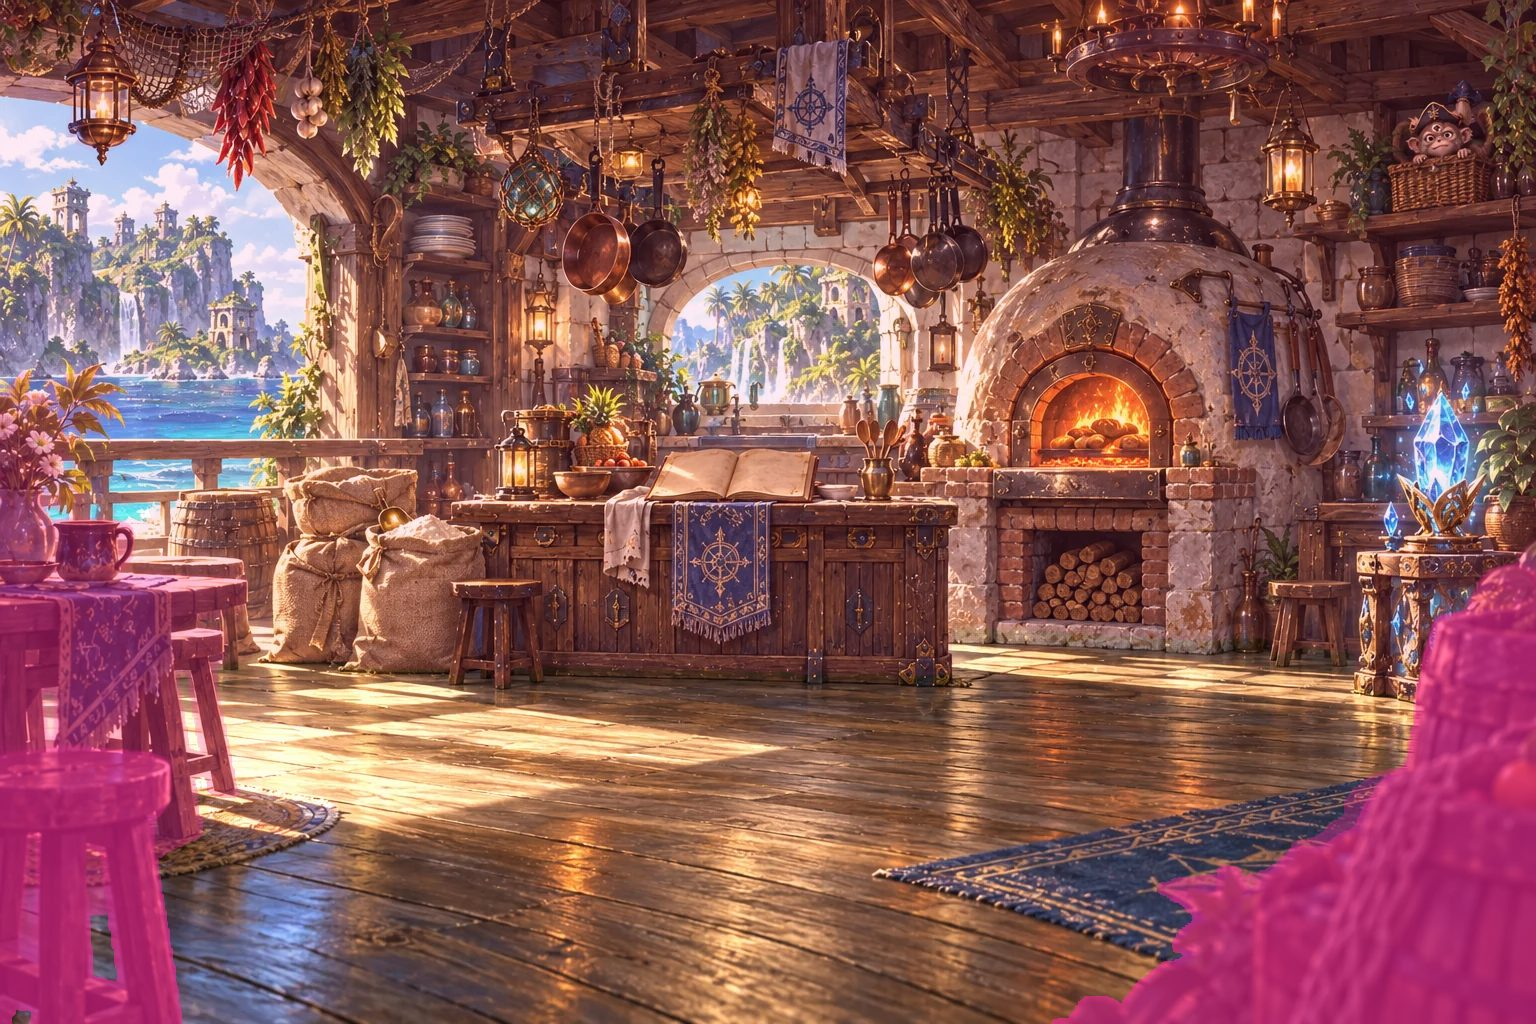
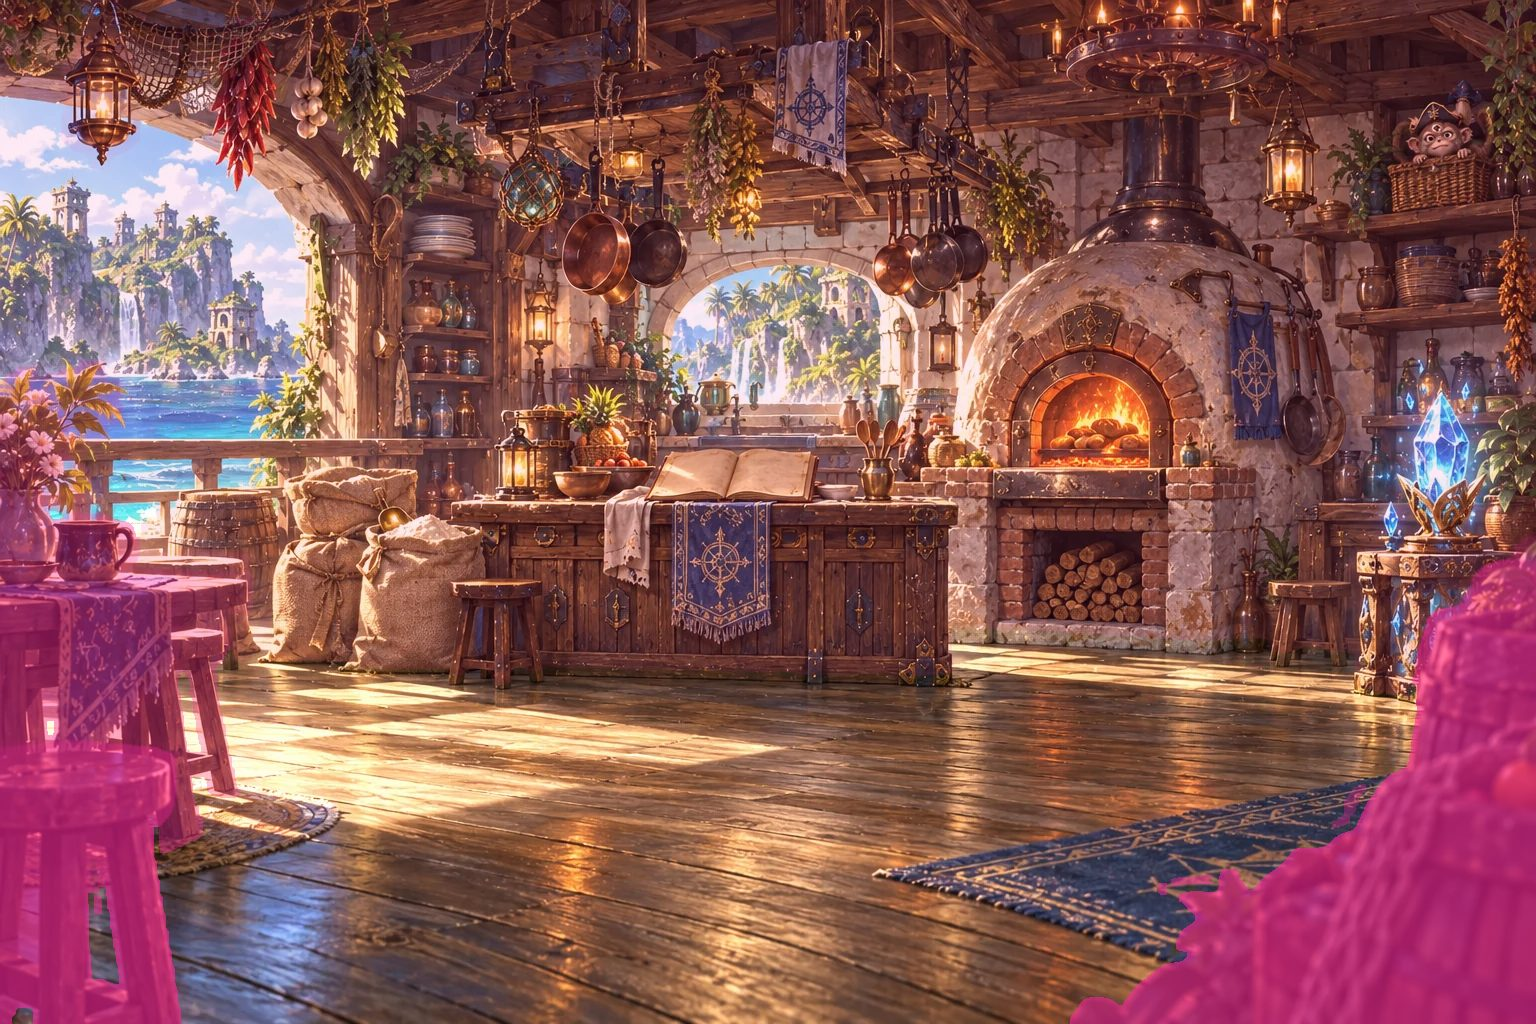
Bakery: Codex's clean plate behind the near furniture, solid depth edges
The depth map now cuts each near thing's edge where the model's blur is
halfway, so tables, stools and the barrel move whole, and what they slide
off shows Codex's painting of the room without them.

Claude-Session: https://claude.ai/code/session_01TdGBWtPRdxX58zPUQ92D2L

diff --git a/src/ui/depth.js b/src/ui/depth.js
@@ -7,8 +7,9 @@
 // stage row of the floor that is as near as it is; here each pixel of the
 // screen looks along its row for the painted pixel that lands on it, nearest
 // first, so the table moves whole, at the speed of the floor it stands on.
-// Where a near thing slides off what was behind it, the gap takes the colour
-// from behind (never a smear of the near thing).
+// Where a near thing slides off what was behind it, the gap shows the room
+// without it (Codex's plate), or without one, the colour just behind it
+// stretched (never a smear of the near thing).
 //
 // A second pass draws only what is nearer than anyone can walk (the stool at
 // the front), for the layer in front of the people.
@@ -27,6 +28,9 @@ precision highp float;
 uniform sampler2D uImg;
 uniform sampler2D uDepth;
 uniform sampler2D uRowMax;
+uniform sampler2D uPlate;  // the room with the near things taken out (or nothing: uHasPlate 0)
+uniform float uHasPlate;
+uniform float uPlateFrom; // the plate has everything nearer than this row taken out
 uniform vec2 uRes;       // canvas pixels
 uniform float uPx;       // canvas pixels per stage pixel
 uniform vec2 uC;         // the stage's middle
@@ -60,7 +64,9 @@ void main() {
   float fHi = factor(max(row, rowMax));
   // a painted pixel at u lands at u * scale - camera * f: look from the nearest f to the farthest
   float u = (q + uCam.x * fLo) / uImgPos.z;
+  float uBg = u; // what's behind anything near: the floor here, or the back of the room
   float hit = standing(u, v);
+  float behind = 0.0; // 1: what shows here was hidden behind something near
   float span = abs(uCam.x) * (fHi - fLo) / uImgPos.z;
   if (span > 0.5) {
     float n = min(float(${MAX_STEPS}), ceil(span / 1.5));
@@ -73,14 +79,21 @@ void main() {
       float fs = factor(max(row, st));
       if (fs >= ft - 1e-4 || float(i) >= n) {
         // hit the side of something near: what shows here was behind it
-        if (i > 0 && fs - ft > fStep * 2.0) { u = prevU; hit = 0.0; }
+        // (something else near behind it, or another part of the same thing: stretch that a little, the plate doesn't have it)
+        if (i > 0 && fs - ft > fStep * 2.0) {
+          u = prevU;
+          hit = standing(prevU, v);
+          behind = hit < uPlateFrom ? 1.0 : 0.0;
+        }
         else { u = ut; hit = st; }
         break;
       }
       prevU = ut;
     }
   }
-  vec4 col = texture2D(uImg, vec2(mirror(u) / uImgSize.x, v / uImgSize.y));
+  vec4 col = behind * uHasPlate > 0.5
+    ? texture2D(uPlate, vec2(mirror(uBg) / uImgSize.x, v / uImgSize.y))
+    : texture2D(uImg, vec2(mirror(u) / uImgSize.x, v / uImgSize.y));
   float a = (uNear <= 0.0 || hit > uNear) ? 1.0 : 0.0;
   gl_FragColor = vec4(col.rgb * a, a);
 }
@@ -90,8 +103,10 @@ void main() {
  * A depth painter for one scene, or null when this computer can't draw one
  * (no WebGL): the stage then draws in rows as before.
  *   depthImg  the depth map (loaded), unit  its step in stage rows
+ *   plateImg  the room without its near things (loaded), if it has one,
+ *   plateFrom  with everything nearer than this stage row taken out
  */
-export function createDepthPainter(depthImg, unit) {
+export function createDepthPainter(depthImg, unit, plateImg = null, plateFrom = 0) {
   const canvas = h("canvas");
   const gl = canvas.getContext("webgl", { alpha: true, premultipliedAlpha: true, antialias: false, depth: false });
   if (!gl) return null;
@@ -121,7 +136,7 @@ export function createDepthPainter(depthImg, unit) {
   gl.enableVertexAttribArray(aPos);
   gl.vertexAttribPointer(aPos, 2, gl.FLOAT, false, 0, 0);
   const U = {};
-  for (const name of ["uImg", "uDepth", "uRowMax", "uRes", "uPx", "uC", "uCam", "uImgPos", "uImgSize", "uDepthFit", "uRows", "uNear"]) U[name] = gl.getUniformLocation(prog, name);
+  for (const name of ["uImg", "uDepth", "uRowMax", "uPlate", "uHasPlate", "uPlateFrom", "uRes", "uPx", "uC", "uCam", "uImgPos", "uImgSize", "uDepthFit", "uRows", "uNear"]) U[name] = gl.getUniformLocation(prog, name);
 
   gl.pixelStorei(gl.UNPACK_COLORSPACE_CONVERSION_WEBGL, gl.NONE);
   gl.pixelStorei(gl.UNPACK_PREMULTIPLY_ALPHA_WEBGL, false);
@@ -157,9 +172,15 @@ export function createDepthPainter(depthImg, unit) {
   }
   texture(2, gl.NEAREST);
   gl.texImage2D(gl.TEXTURE_2D, 0, gl.LUMINANCE, dh, 1, 0, gl.LUMINANCE, gl.UNSIGNED_BYTE, rowMax);
+  texture(3, gl.LINEAR);
+  if (plateImg) gl.texImage2D(gl.TEXTURE_2D, 0, gl.RGBA, gl.RGBA, gl.UNSIGNED_BYTE, plateImg);
+  else gl.texImage2D(gl.TEXTURE_2D, 0, gl.RGBA, 1, 1, 0, gl.RGBA, gl.UNSIGNED_BYTE, new Uint8Array(4));
   gl.uniform1i(U.uImg, 0);
   gl.uniform1i(U.uDepth, 1);
   gl.uniform1i(U.uRowMax, 2);
+  gl.uniform1i(U.uPlate, 3);
+  gl.uniform1f(U.uHasPlate, plateImg ? 1 : 0);
+  gl.uniform1f(U.uPlateFrom, plateFrom);
 
   let imgSource = null;
   let imgVersion = -1;

diff --git a/src/world/data2.js b/src/world/data2.js
@@ -89,14 +89,23 @@ export const SCENES2 = {
     // the painting's camera stands close, at a grown-up's eye height: heads near its horizon
     people: { eyeY: 140, scale: 2.1 },
     music: "music_cove",
-    walk: WALK(432),
+    // behind the corner table at the left (it's drawn in front of whoever is behind it), never in front of it
+    walk: [
+      [-150, 432],
+      [1430, 432],
+      [1450, 640],
+      [120, 640],
+      [-170, 590],
+    ],
+    // the corner table, its stools and the barrel are nearer than this row, so they're drawn in front of the people
+    inFrontFrom: 590,
     start: [140, 600],
     hotspots: [
       thing("sacks", "flour sacks", "Look at", [61, 225, 306, 439], [176, 436]),
       thing("book", "recipe book", "Read", [503, 194, 692, 257], [597, 449]),
       thing("oven", "the oven", "Look at", [844, -73, 1232, 420], [1040, 417]),
       thing("rest", "rest crystal", "Rest at", [1303, 113, 1477, 477], [1376, 468]),
-      { id: "baker", name: "the baker", verb: "Talk to", sprite: "baker", x: 820, y: 506, size: [150, 238], approach: [-150, 30], face: "left" },
+      { id: "baker", name: "the baker", verb: "Talk to", sprite: "baker", x: 820, y: 506, size: [120, 190], approach: [-210, 30], face: "left" },
       pockets("sacks", [0.5, 0.12], 0.7),
       { id: "out", name: "door to the harbor", verb: "Go out", edge: "left", hidden: true, x: -150, y: 600, size: [120, 220], exit: { to: "harbor", at: [1230, 600] } },
     ],

diff --git a/src/ui/scene.js b/src/ui/scene.js
@@ -139,11 +139,13 @@ export function createStage(field, { background = null, mode = "battle", pinY = 
   // A painted scene with a depth map (tools/art/scene_depth.py) is drawn from it on the GPU (depth.js), so
   // things standing on near floor move whole instead of shearing row by row; ?nodepth shows the rows, for comparing
   const depthArt = fit.pinY != null && info?.depth?.src && !PARAMS_NODEPTH ? loadImage(info.depth.src) : null;
+  const plateArt = depthArt && info.depth.plate ? loadImage(info.depth.plate) : null;
   let depthPainter = null;
-  depthArt?.done.then((ok) => {
-    if (ok && running) depthPainter = createDepthPainter(depthArt.img, info.depth.unit || 4);
-    drawn = "";
-  });
+  if (depthArt)
+    Promise.all([depthArt.done, plateArt?.done]).then(([ok, plateOk]) => {
+      if (ok && running) depthPainter = createDepthPainter(depthArt.img, info.depth.unit || 4, plateOk ? plateArt.img : null, info.depth.plateFrom || 0);
+      drawn = "";
+    });
 
   // ---------------------------------------------------------------- camera
   const camera = {
@@ -490,7 +492,7 @@ export function createStage(field, { background = null, mode = "battle", pinY = 
         eyeY,
         refY: fit.refY,
         damp: fit.damp,
-        nearest: imgTop + imgH * s,
+        nearest: Math.min(imgTop + imgH * s, STAGE_H), // nothing moves faster than the nearest floor on screen
         px: Math.min(dpr, quality.low ? 1 : 1.5),
         near,
       });

diff --git a/src/ui/explore.js b/src/ui/explore.js
@@ -849,7 +849,7 @@ async function runScene(app, { mastery, rng }) {
   const bgId = firstArt(scene.backgrounds);
   // with its distant view on its own (art wave 05; tools/art/scene_layers.py cut the near layer), the view moves slower than the ground
   const layeredArt = Boolean(art?.far?.src && art?.near?.src);
-  const stage = createStage(field, art ? { background: scene.painted, mode: "painted", pinY: layout.pinY, far: layeredArt ? art.far.src : null, eyeY: scene.people?.eyeY, nearFrom: Math.max(...scene.walk.map((p) => p[1])) + 16 } : { background: bgId, mode: "explore" });
+  const stage = createStage(field, art ? { background: scene.painted, mode: "painted", pinY: layout.pinY, far: layeredArt ? art.far.src : null, eyeY: scene.people?.eyeY, nearFrom: scene.inFrontFrom ?? Math.max(...scene.walk.map((p) => p[1])) + 16 } : { background: bgId, mode: "explore" });
   if (art) field.classList.add("painted");
   // a new place borrowing another's painting until its own lands gets a mood of its own
   else if (scene.tint && bgId !== scene.backgrounds[0]) field.classList.add(`tint-${scene.tint}`);

diff --git a/tools/art/scene_depth.py b/tools/art/scene_depth.py
@@ -45,6 +45,9 @@ LAYOUT = json.loads((ROOT / "src" / "ui" / "stage-layout.json").read_text())["ex
 
 UNIT = 4  # stage rows per step in the map
 LIFT = 10  # stage rows nearer than its own row before a pixel counts as standing up (the floor's own noise is about 2)
+EDGE = 10  # painting pixels: how far the model's blur of an edge reaches
+JUMP = 40  # stage rows: a step in depth bigger than this is an edge between two things
+HOLE = 5  # painting pixels: holes this small inside something near are filled
 GROW = 3  # painting pixels: what stands up keeps a thin rim of what's behind it, so none of its own edge is left behind
 
 
@@ -61,14 +64,16 @@ def model_depth(img, model):
     return np.asarray(Image.fromarray(d.astype(np.float32)).resize((w, h), Image.BICUBIC))
 
 
-def grow(a, r):
-    """Each pixel takes the largest value within r pixels (a square)."""
+def grow(a, r, pick=np.maximum):
+    """Each pixel takes the largest value within r pixels (a square; `pick` np.minimum: the smallest)."""
     h, w = a.shape
-    p = np.pad(a, r, mode="edge")
     out = a.copy()
-    for dy in range(2 * r + 1):
-        for dx in range(2 * r + 1):
-            out = np.maximum(out, p[dy : dy + h, dx : dx + w])
+    for axis in (0, 1):  # a square is a row of a column
+        p = np.pad(out, [(r, r) if i == axis else (0, 0) for i in (0, 1)], mode="edge")
+        acc = out.copy()
+        for d in range(2 * r + 1):
+            acc = pick(acc, p[d : d + h] if axis == 0 else p[:, d : d + w])
+        out = acc
     return out
 
 
@@ -98,7 +103,17 @@ def main():
     print(f"floor fit: stage row = {a:.2f} * depth + {b:.1f}; off by {np.abs(fit).max():.1f} rows at most")
 
     near = a * disp + b  # the stage row of the floor as near as each pixel
-    near = np.where(near - rows[:, None] > LIFT, near, 0)
+    # The model blurs each edge over a dozen pixels or so; drawn as it is, that
+    # slope would stretch like rubber as the camera pans. So the edge goes where
+    # the slope is halfway, and everything on the near side takes the near depth.
+    hi = grow(near, EDGE)
+    lo = grow(near, EDGE, np.minimum)
+    lift = near - rows[:, None]
+    # an edge against the floor (not between two near things) is cut halfway
+    edge = (hi - lo > JUMP) & (grow(lift, EDGE, np.minimum) <= LIFT)
+    stands = (lift > LIFT) & (~edge | (near > (hi + lo) / 2))
+    near = np.where(stands, grow(near, EDGE // 2), 0)
+    near = grow(grow(near, HOLE), HOLE, np.minimum)  # small holes inside something take its depth
     near = grow(near, GROW)
     q = np.clip(np.round(near / UNIT), 0, 255).astype(np.uint8)
 

diff --git a/CLAUDE.md b/CLAUDE.md
@@ -14,7 +14,7 @@ A Final Fantasy X–style learning RPG with Monkey Island–style humor, for one
 - **Every push to `claude/busy-einstein-52yr07` (or `main`) redeploys the game the kids play** (`.github/workflows/pages.yml`). Push only finished states.
 - `npm run build`: bundle to `dist/` (esbuild). `npm run dev` serves it at http://localhost:8000 with rebuilds.
 - `?battle=t1` … `t4` or `?battle=free` jumps straight into a fight, which is quickest for checking UI or new art. Chapter 2's are `?battle=h1` … `h4` (the harbor's fiends, all five heroes and their pets: `HARBOR_TRIALS` in `src/world/data2.js`) and `?battle=engine` (the Drain Engine).
-- `?explore` jumps into the adventure. Add `&debug` to expose `window.__world`, `window.__puzzle`, `window.__battle` and `window.__stage` (the camera) for automated playtests, `&calm` to turn ambushes off, `&unpainted` to see a place without its wave 04 painting, `&scene=temple` to start in a scene (`cove`, `temple`, `temple_hall`, `canyon` or `grotto`; chapter 2's are `harbor`, `hal_shop`, `biscuit`, `menagerie`, `lighthouse`, `lamp_room`, `sea_cave`, `camp`, `sword_dock`, `sage_library` and `lair_deep`), and `&at=lair` to start partway through the story (chapter 1: `temple`, `canyon`, `wren`, `maren`, `lair`, or `ending` for its ending; chapter 2: `ch2`, `harbor`, `tamsin`, `menagerie`, `causeway`, `lamp`, `day2`, `audit`, `dusk`, or `ending2` for its ending; `checkpoint()` in `src/world/state.js`). The two combine: `&at=canyon&scene=cove` shows the cove with the chest, gate and pool already done. A jump drops any fight saved mid-way (`save.fight`); plain `?explore&debug` picks one back up.
+- `?explore` jumps into the adventure. Add `&debug` to expose `window.__world`, `window.__puzzle`, `window.__battle` and `window.__stage` (the camera) for automated playtests, `&calm` to turn ambushes off, `&unpainted` to see a place without its wave 04 painting, `&nodepth` to see a painted place drawn in rows instead of from its depth map (the bakery: `tools/art/scene_depth.py`), `&scene=temple` to start in a scene (`cove`, `temple`, `temple_hall`, `canyon` or `grotto`; chapter 2's are `harbor`, `hal_shop`, `biscuit`, `menagerie`, `lighthouse`, `lamp_room`, `sea_cave`, `camp`, `sword_dock`, `sage_library` and `lair_deep`), and `&at=lair` to start partway through the story (chapter 1: `temple`, `canyon`, `wren`, `maren`, `lair`, or `ending` for its ending; chapter 2: `ch2`, `harbor`, `tamsin`, `menagerie`, `causeway`, `lamp`, `day2`, `audit`, `dusk`, or `ending2` for its ending; `checkpoint()` in `src/world/state.js`). The two combine: `&at=canyon&scene=cove` shows the cove with the chest, gate and pool already done. A jump drops any fight saved mid-way (`save.fight`); plain `?explore&debug` picks one back up.
 
 ## Layout
 
